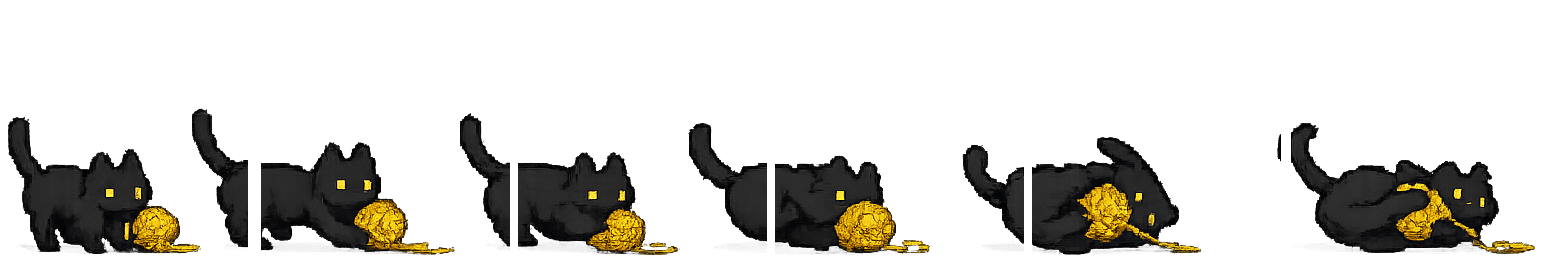
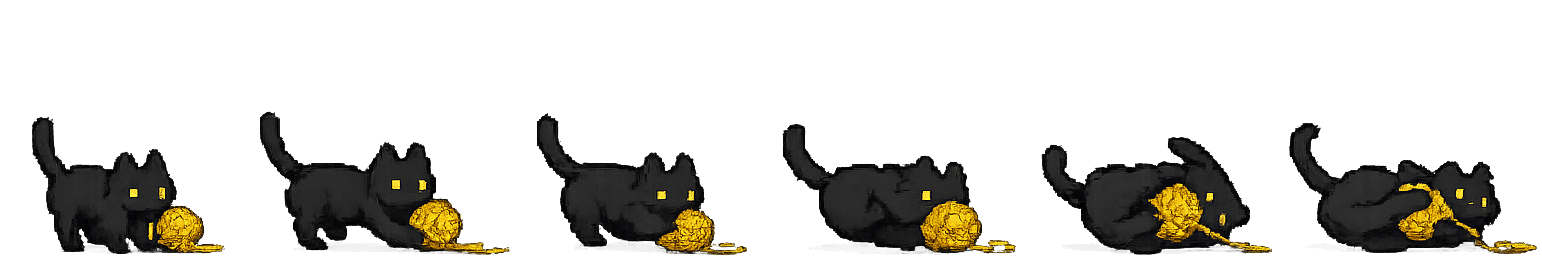
fix(game): чистая нарезка анимации с клубком + масштаб вдвое меньше
- Перенарезал по связным компонентам: каждый кот+клубок берётся как
  отдельная фигура, обрезки соседних кадров (хвост перед лицом) убраны
- Масштаб playSprite 0.42 → 0.24 (был почти вдвое крупнее обычного кота)

diff --git a/game/src/scenes/GameScene.ts b/game/src/scenes/GameScene.ts
@@ -342,7 +342,7 @@ export class GameScene extends Phaser.Scene {
     this.slash = this.add.graphics().setDepth(11);
     if (!this.anims.exists('p-play'))
       this.anims.create({ key: 'p-play', frames: this.anims.generateFrameNumbers('cat_play', { start: 0, end: 5 }), frameRate: 7, repeat: -1 });
-    this.playSprite = this.add.sprite(0, 0, 'cat_play', 0).setOrigin(0.5, 1).setScale(0.42).setDepth(10).setVisible(false);
+    this.playSprite = this.add.sprite(0, 0, 'cat_play', 0).setOrigin(0.5, 1).setScale(0.24).setDepth(10).setVisible(false);
     this.bubble = this.add.text(0, 0, '', { fontFamily: '"Press Start 2P", "Courier New", monospace', fontSize: '10px', color: '#fff0d8',
       backgroundColor: 'rgba(16,12,30,0.88)', padding: { x: 9, y: 5 }, align: 'center' })
       .setOrigin(0.5, 1).setDepth(45).setAlpha(0);

diff --git a/game/src/scenes/TutorialScene.ts b/game/src/scenes/TutorialScene.ts
@@ -79,7 +79,7 @@ export class TutorialScene extends Phaser.Scene {
     this.slash = this.add.graphics().setDepth(11);
     if (!this.anims.exists('p-play'))
       this.anims.create({ key: 'p-play', frames: this.anims.generateFrameNumbers('cat_play', { start: 0, end: 5 }), frameRate: 7, repeat: -1 });
-    this.playSprite = this.add.sprite(0, 0, 'cat_play', 0).setOrigin(0.5, 1).setScale(0.42).setDepth(10).setVisible(false);
+    this.playSprite = this.add.sprite(0, 0, 'cat_play', 0).setOrigin(0.5, 1).setScale(0.24).setDepth(10).setVisible(false);
     this.paused = false;
     this.dim = this.add.rectangle(W / 2, H / 2, W, H, 0x06040e, 0).setDepth(48);
     this.contHint = this.add.text(W / 2, H - 96, IS_TOUCH ? 'тапни — дальше' : 'любая клавиша — дальше',